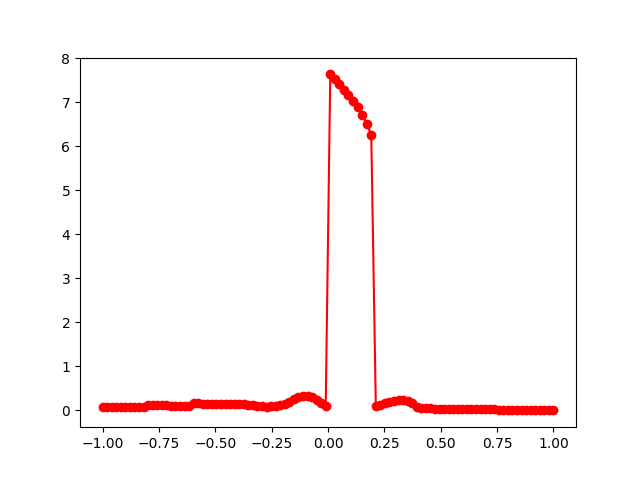
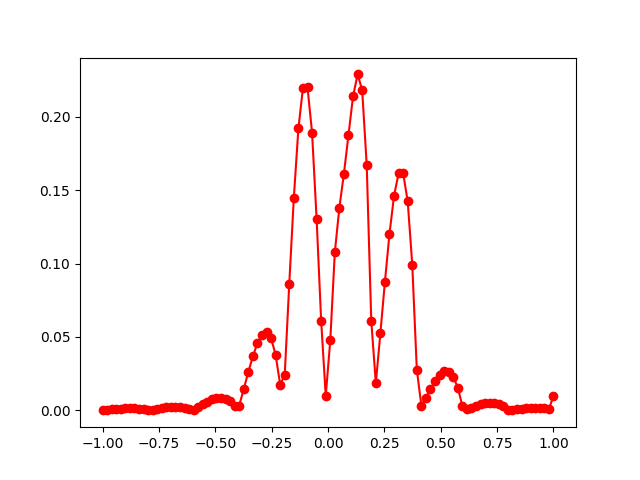
Updated Cubic Spline code to fix typo from Lab writeup

diff --git a/Labs/Lab 8/main.py b/Labs/Lab 8/main.py
@@ -84,7 +84,6 @@ def eval_lin_spline(xeval, Neval, a, b, f, Nint):
 import numpy as np
 
 
-#This has verry bizarre behavior around 0
 def eval_cubic_spline(xeval, Neval, a, b, f, Nint):
     xint = np.linspace(a, b, Nint + 1)
     yeval = np.zeros(Neval)
@@ -116,7 +115,7 @@ def eval_cubic_spline(xeval, Neval, a, b, f, Nint):
 
 
         for kk in range(len(ind)):
-            yeval[ind[kk]] = (((b1 - xeval[ind[kk]])**3)*coeffs[0])/(6*h) + (((xeval[ind[kk]] - a1)**3)*coeffs[1])/(6*h) + C*(b1 - 1) + D*(xeval[ind[kk]] - a1)
+            yeval[ind[kk]] = (((b1 - xeval[ind[kk]])**3)*coeffs[0])/(6*h) + (((xeval[ind[kk]] - a1)**3)*coeffs[1])/(6*h) + C*(b1 - xeval[ind[kk]]) + D*(xeval[ind[kk]] - a1)
 
     return yeval
 
